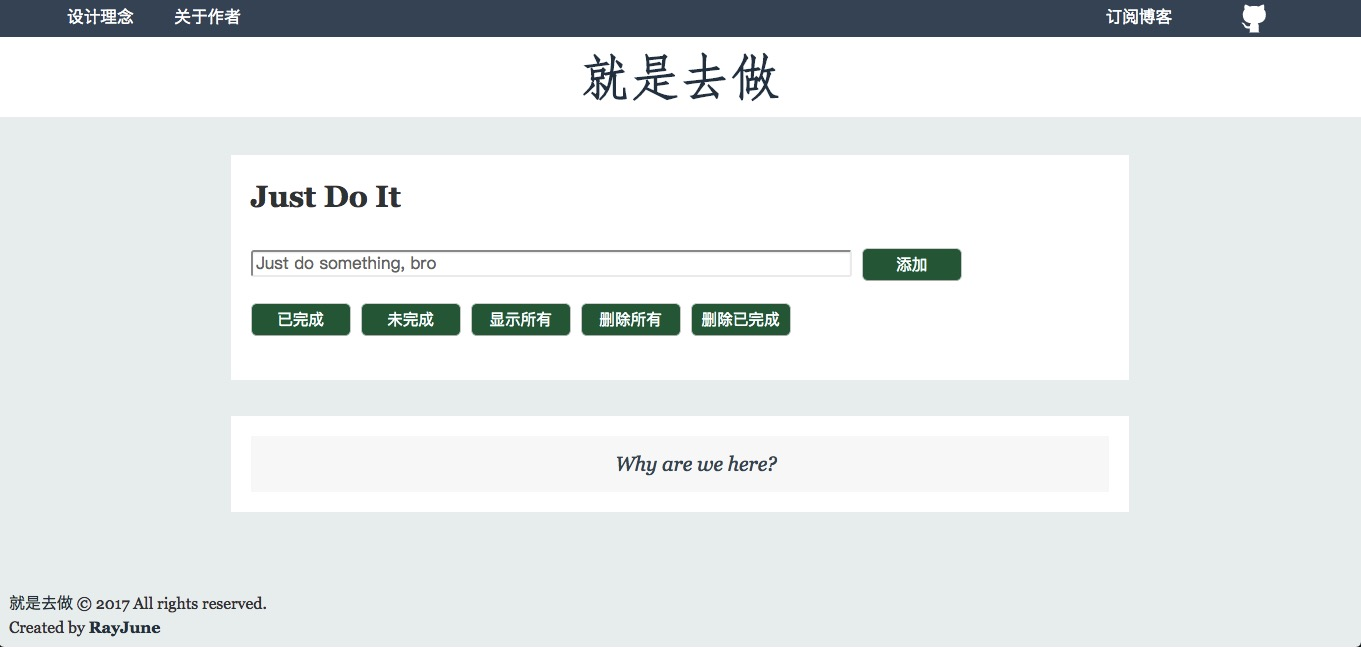
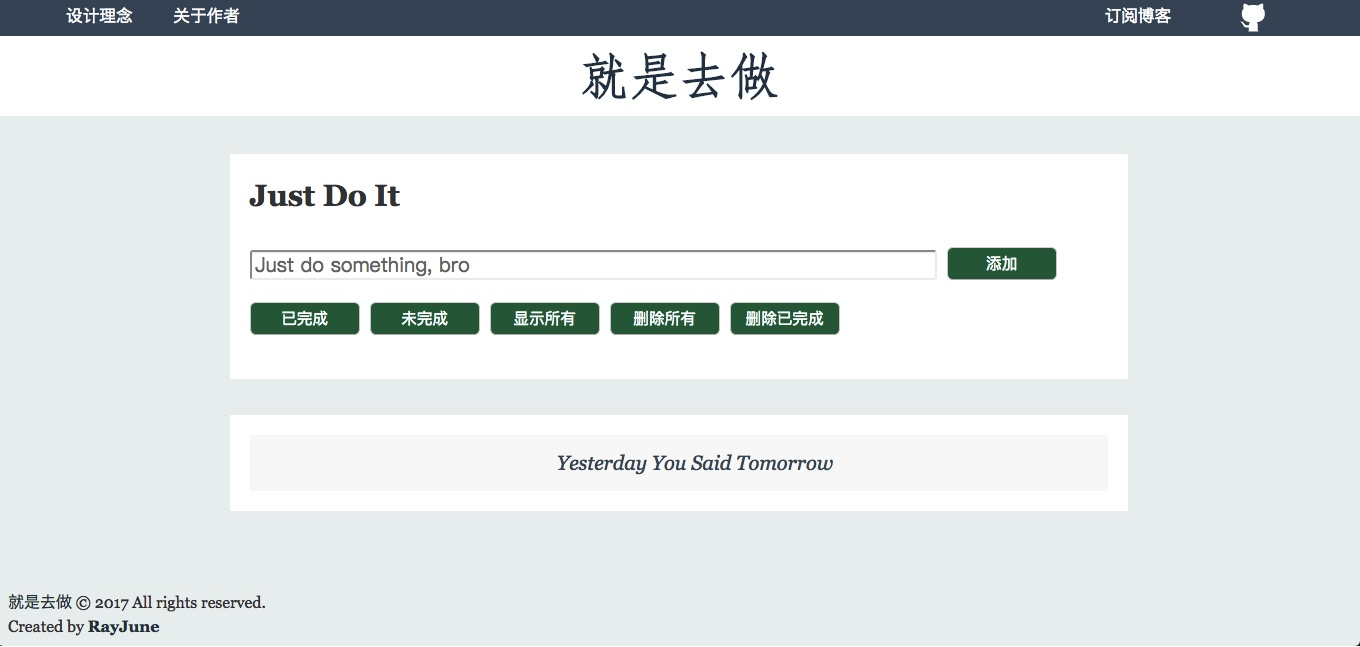
bigger operable area in mobile, take a break :)

diff --git a/dist/styles/main.min.css b/dist/styles/main.min.css
@@ -1,1 +1,1 @@
-/*! normalize.css v7.0.0 | MIT License | github.com/necolas/normalize.css */html{line-height:1.15;-ms-text-size-adjust:100%;-webkit-text-size-adjust:100%}body{margin:0}article,aside,footer,header,nav,section{display:block}h1{font-size:2em;margin:.67em 0}figcaption,figure,main{display:block}figure{margin:1em 40px}hr{box-sizing:content-box;height:0;overflow:visible}pre{font-family:monospace,monospace;font-size:1em}a{background-color:transparent;-webkit-text-decoration-skip:objects}abbr[title]{border-bottom:none;text-decoration:underline;text-decoration:underline dotted}b,strong{font-weight:inherit}b,strong{font-weight:bolder}code,kbd,samp{font-family:monospace,monospace;font-size:1em}dfn{font-style:italic}mark{background-color:#ff0;color:#000}small{font-size:80%}sub,sup{font-size:75%;line-height:0;position:relative;vertical-align:baseline}sub{bottom:-.25em}sup{top:-.5em}audio,video{display:inline-block}audio:not([controls]){display:none;height:0}img{border-style:none}svg:not(:root){overflow:hidden}button,input,optgroup,select,textarea{font-family:sans-serif;font-size:100%;line-height:1.15;margin:0}button,input{overflow:visible}button,select{text-transform:none}[type=reset],[type=submit],button,html [type=button]{-webkit-appearance:button}[type=button]::-moz-focus-inner,[type=reset]::-moz-focus-inner,[type=submit]::-moz-focus-inner,button::-moz-focus-inner{border-style:none;padding:0}[type=button]:-moz-focusring,[type=reset]:-moz-focusring,[type=submit]:-moz-focusring,button:-moz-focusring{outline:1px dotted ButtonText}fieldset{padding:.35em .75em .625em}legend{box-sizing:border-box;color:inherit;display:table;max-width:100%;padding:0;white-space:normal}progress{display:inline-block;vertical-align:baseline}textarea{overflow:auto}[type=checkbox],[type=radio]{box-sizing:border-box;padding:0}[type=number]::-webkit-inner-spin-button,[type=number]::-webkit-outer-spin-button{height:auto}[type=search]{-webkit-appearance:textfield;outline-offset:-2px}[type=search]::-webkit-search-cancel-button,[type=search]::-webkit-search-decoration{-webkit-appearance:none}::-webkit-file-upload-button{-webkit-appearance:button;font:inherit}details,menu{display:block}summary{display:list-item}canvas{display:inline-block}template{display:none}[hidden]{display:none}html{font-size:62.5%;height:100%;-webkit-box-sizing:border-box;box-sizing:border-box}*,:after,:before{-webkit-box-sizing:inherit;box-sizing:inherit}.clearfix::after{content:"";display:table;clear:both}body{height:100%;font-family:Georgia,'Source Han Sans CN','Xin Gothic','Hiragino Sans GB','Microsoft YaHei',sans-serif;font-size:1.6rem;line-height:1.6;color:#3a4145;background:#ecf0f1}a{text-decoration:none;color:#2c3e50;-webkit-transition:color .36s;transition:color .36s}a:hover{color:#0d8}p{margin:0}header{height:3.8rem;line-height:3.8rem;background-color:#456;color:#fff;position:fixed;top:0;z-index:100;width:100%;padding-bottom:11.8rem}.github-corner{top:calc((3.8rem - 43px)/ 2)}nav a{font-size:1.66rem;color:#fff;border-radius:.6rem;-webkit-transition:background-color .66s;transition:background-color .66s}nav a:hover{background-color:#0d8;color:#fff}.design{float:left;margin-left:5%}.about{float:left;margin-left:3%}.subscribe{float:right;margin-right:calc(8rem + 8%)}.page-title{margin-left:auto;margin-right:auto;font-family:STFangsong,"Songti TC",simsun,Arial,serif;font-weight:700;text-align:center;background-color:#fff;height:8rem}.page-title a{line-height:8rem;font-size:5rem;-webkit-transition:color .88s;transition:color .88s}footer{height:6.5rem;padding:1rem 3.6rem 1.6rem 1rem;line-height:1.5}.main{padding-top:15.6rem;min-height:calc(100% - 7.5rem)}.operate-area{overflow-y:scroll;margin-left:auto;margin-right:auto;padding:.8rem 2rem .66rem;width:66%;height:22.46rem;font-size:2rem;word-wrap:break-word;background-color:#fff}h2{margin-top:1rem}.add-area{display:-webkit-box;display:-ms-flexbox;display:flex;-webkit-box-orient:horizontal;-webkit-box-direction:normal;-webkit-box-align:center;-ms-flex-align:center;align-items:center;margin-bottom:2rem}#input{display:inline-block;width:70%;font-size:1.68rem;height:2.7rem;padding:.36rem;margin-right:1rem;border-radius:.3rem;-webkit-box-shadow:inset 0 .1rem .1rem rgba(0,0,0,.075);box-shadow:inset 0 .1rem .1rem rgba(0,0,0,.075)}#input:focus{border-color:#0d8;outline:0;-webkit-box-shadow:inset 0 1px 1px rgba(0,0,0,.075),0 0 8px rgba(102,175,233,.6);box-shadow:inset 0 1px 1px rgba(0,0,0,.075),0 0 8px rgba(102,175,233,.6)}.buttons{display:-webkit-box;display:-ms-flexbox;display:flex;-webkit-box-orient:horizontal;-webkit-box-direction:normal;-ms-flex-direction:row;flex-direction:row;-webkit-box-align:center;-ms-flex-align:center;align-items:center;-ms-flex-wrap:wrap;flex-wrap:wrap}button{cursor:pointer;padding:.8rem 0;font-size:1.56rem;line-height:1;width:10rem;margin-right:1rem;margin-top:.2rem;border-radius:.6rem;color:#fff;background-color:#164;-webkit-transition:background-color .66s;transition:background-color .66s}button:hover{background-color:#0d8}ul{list-style:none;margin:3.6rem auto 1rem;padding:2rem;width:66%;background-color:#fff}li{cursor:pointer;padding:1.2rem .8rem 1.2rem 4rem;overflow-x:scroll;background:#eee;font-size:1.66rem;position:relative;-webkit-transition:.2s;transition:.2s;-webkit-user-select:none;-moz-user-select:none;-ms-user-select:none;user-select:none}li:hover{background:#ddd}li span{font-size:1.88rem;font-weight:700}li:nth-child(odd){background:#f9f9f9}li.finished{background:#888;color:#fff;text-decoration:line-through}li.finished::before{content:'';position:absolute;border-color:#fff;border-style:solid;border-width:0 .1rem .1rem 0;top:1.5rem;left:1.6rem;-webkit-transform:rotate(45deg);transform:rotate(45deg);height:1.5rem;width:.7rem}li.aphorism{cursor:default;font-size:2rem;text-align:center;color:#456;font-style:italic}.close{position:absolute;right:0;top:0;padding:1.2rem 1.6rem 1.2rem 1.6rem}.close:hover{background-color:#0d8;color:#fff}@media (max-width:415px){.operate-area{height:25.46rem}#input{width:110%}#add{width:6rem;margin-right:0}.buttons{-webkit-box-pack:space-evenly;-ms-flex-pack:space-evenly;justify-content:space-evenly}button{font-size:1.36rem;margin-right:0;width:48%}#showClearDone{width:98%}.subscribe{margin-right:9rem}li.aphorism{font-size:1.8rem}}
+/*! normalize.css v7.0.0 | MIT License | github.com/necolas/normalize.css */html{line-height:1.15;-ms-text-size-adjust:100%;-webkit-text-size-adjust:100%}body{margin:0}article,aside,footer,header,nav,section{display:block}h1{font-size:2em;margin:.67em 0}figcaption,figure,main{display:block}figure{margin:1em 40px}hr{box-sizing:content-box;height:0;overflow:visible}pre{font-family:monospace,monospace;font-size:1em}a{background-color:transparent;-webkit-text-decoration-skip:objects}abbr[title]{border-bottom:none;text-decoration:underline;text-decoration:underline dotted}b,strong{font-weight:inherit}b,strong{font-weight:bolder}code,kbd,samp{font-family:monospace,monospace;font-size:1em}dfn{font-style:italic}mark{background-color:#ff0;color:#000}small{font-size:80%}sub,sup{font-size:75%;line-height:0;position:relative;vertical-align:baseline}sub{bottom:-.25em}sup{top:-.5em}audio,video{display:inline-block}audio:not([controls]){display:none;height:0}img{border-style:none}svg:not(:root){overflow:hidden}button,input,optgroup,select,textarea{font-family:sans-serif;font-size:100%;line-height:1.15;margin:0}button,input{overflow:visible}button,select{text-transform:none}[type=reset],[type=submit],button,html [type=button]{-webkit-appearance:button}[type=button]::-moz-focus-inner,[type=reset]::-moz-focus-inner,[type=submit]::-moz-focus-inner,button::-moz-focus-inner{border-style:none;padding:0}[type=button]:-moz-focusring,[type=reset]:-moz-focusring,[type=submit]:-moz-focusring,button:-moz-focusring{outline:1px dotted ButtonText}fieldset{padding:.35em .75em .625em}legend{box-sizing:border-box;color:inherit;display:table;max-width:100%;padding:0;white-space:normal}progress{display:inline-block;vertical-align:baseline}textarea{overflow:auto}[type=checkbox],[type=radio]{box-sizing:border-box;padding:0}[type=number]::-webkit-inner-spin-button,[type=number]::-webkit-outer-spin-button{height:auto}[type=search]{-webkit-appearance:textfield;outline-offset:-2px}[type=search]::-webkit-search-cancel-button,[type=search]::-webkit-search-decoration{-webkit-appearance:none}::-webkit-file-upload-button{-webkit-appearance:button;font:inherit}details,menu{display:block}summary{display:list-item}canvas{display:inline-block}template{display:none}[hidden]{display:none}html{font-size:62.5%;height:100%;-webkit-box-sizing:border-box;box-sizing:border-box}*,:after,:before{-webkit-box-sizing:inherit;box-sizing:inherit}.clearfix::after{content:"";display:table;clear:both}body{height:100%;font-family:Georgia,'Source Han Sans CN','Xin Gothic','Hiragino Sans GB','Microsoft YaHei',sans-serif;font-size:1.6rem;line-height:1.6;color:#3a4145;background:#ecf0f1}a{text-decoration:none;color:#2c3e50;-webkit-transition:color .36s;transition:color .36s}a:hover{color:#0d8}p{margin:0}header{height:3.8rem;line-height:3.8rem;background-color:#456;color:#fff;position:fixed;top:0;z-index:100;width:100%;padding-bottom:11.8rem}.github-corner{top:calc((3.8rem - 43px)/ 2)}nav a{font-size:1.66rem;color:#fff;border-radius:.6rem;-webkit-transition:background-color .66s;transition:background-color .66s}nav a:hover{background-color:#0d8;color:#fff}.design{float:left;margin-left:5%}.about{float:left;margin-left:3%}.subscribe{float:right;margin-right:calc(8rem + 8%)}.page-title{margin-left:auto;margin-right:auto;font-family:STFangsong,"Songti TC",simsun,Arial,serif;font-weight:700;text-align:center;background-color:#fff;height:8rem}.page-title a{line-height:8rem;font-size:5rem;-webkit-transition:color .88s;transition:color .88s}footer{height:6.5rem;padding:1rem 3.6rem 1.6rem 1rem;line-height:1.5}.main{padding-top:15.6rem;min-height:calc(100% - 7.5rem)}.operate-area{overflow-y:scroll;margin-left:auto;margin-right:auto;padding:.8rem 2rem .66rem;width:66%;height:22.46rem;font-size:2rem;word-wrap:break-word;background-color:#fff}h2{margin-top:1rem}.add-area{display:-webkit-box;display:-ms-flexbox;display:flex;-webkit-box-align:end;-ms-flex-align:end;align-items:flex-end;margin-bottom:2rem}#input{display:inline-block;width:80%;font-size:2rem;height:3rem;padding:.36rem;margin-right:1rem;border-radius:.3rem;-webkit-box-shadow:inset 0 .1rem .1rem rgba(0,0,0,.075);box-shadow:inset 0 .1rem .1rem rgba(0,0,0,.075)}#input:focus{border-color:#0d8;outline:0;-webkit-box-shadow:inset 0 1px 1px rgba(0,0,0,.075),0 0 8px rgba(102,175,233,.6);box-shadow:inset 0 1px 1px rgba(0,0,0,.075),0 0 8px rgba(102,175,233,.6)}button{cursor:pointer;padding:.8rem 0;font-size:1.56rem;line-height:1;width:11rem;margin-right:1rem;margin-top:.2rem;border-radius:.6rem;color:#fff;background-color:#164;-webkit-transition:background-color .66s;transition:background-color .66s}button:hover{background-color:#0d8}.buttons{display:-webkit-box;display:-ms-flexbox;display:flex;-webkit-box-orient:horizontal;-webkit-box-direction:normal;-ms-flex-direction:row;flex-direction:row;-webkit-box-align:center;-ms-flex-align:center;align-items:center;-ms-flex-wrap:wrap;flex-wrap:wrap}ul{list-style:none;margin:3.6rem auto 1rem;padding:2rem;width:66%;background-color:#fff}li{cursor:pointer;padding:1.2rem .8rem 1.2rem 4rem;overflow-x:scroll;background:#eee;font-size:1.66rem;position:relative;-webkit-transition:.2s;transition:.2s;-webkit-user-select:none;-moz-user-select:none;-ms-user-select:none;user-select:none}li:hover{background:#ddd}li span{font-size:1.88rem;font-weight:700}li:nth-child(odd){background:#f9f9f9}li.finished{background:#888;color:#fff;text-decoration:line-through}li.finished::before{content:'';position:absolute;border-color:#fff;border-style:solid;border-width:0 .1rem .1rem 0;top:1.5rem;left:1.6rem;-webkit-transform:rotate(45deg);transform:rotate(45deg);height:1.5rem;width:.7rem}li.aphorism{cursor:default;font-size:2rem;text-align:center;color:#456;font-style:italic}.close{position:absolute;right:0;top:0;padding:1.2rem 1.6rem 1.2rem 1.6rem}.close:hover{background-color:#0d8;color:#fff}@media (max-width:415px){.operate-area{height:25.46rem}#input{width:110%}#add{width:6rem;margin-right:0}.buttons{-webkit-box-pack:justify;-ms-flex-pack:justify;justify-content:space-between}button{font-size:1.36rem;margin-right:0;width:48%}#showClearDone{width:100%}.operate-area,ul{width:86%}.subscribe{margin-right:9rem}li{padding-left:1rem}li.aphorism{font-size:1.8rem}}

diff --git a/index.html b/index.html
@@ -10,7 +10,7 @@
   <body>
     <header>
       <nav class="clearfix">        
-        <a href="https://github.com/RayJune/JustToDo#%E9%A1%B5%E9%9D%A2%E8%AE%BE%E8%AE%A1%E7%90%86%E5%BF%B5" class="design">设计理念</a>
+        <a href="https://github.com/RayJune/JustToDo#%E9%A1%B5%E9%9D%A2%E8%AE%BE%E8%AE%A1%E7%90%66%E5%BF%B5" class="design">设计理念</a>
         <a href="https://www.rayjune.me/about" class="about">关于作者</a>
         <a href="https://www.rayjune.me/atom.xml" class="subscribe">订阅博客</a>
         <a href="https://github.com/RayJune/JustToDo" class="github-corner" aria-label="View source on Github"><svg width="80" height="75" -webkit-transform='rotate(-45)' -ms-transform='rotate(-45)' transform='rotate(-45)' viewBox="0 0 250 250" style="fill:#456; color:#fff; position: absolute; top: -0.36rem; border: 0; right: 5%;" aria-hidden="true"><path d="M128.3,109.0 C113.8,99.7 119.0,89.6 119.0,89.6 C122.0,82.7 120.5,78.6 120.5,78.6 C119.2,72.0 123.4,76.3 123.4,76.3 C127.3,80.9 125.5,87.3 125.5,87.3 C122.9,97.6 130.6,101.9 134.4,103.2" fill="currentColor" style="transform-origin: 130px 106px;" class="octo-arm"></path><path d="M115.0,115.0 C114.9,115.1 118.7,116.5 119.8,115.4 L133.7,101.6 C136.9,99.2 139.9,98.4 142.2,98.6 C133.8,88.0 127.5,74.4 143.8,58.0 C148.5,53.4 154.0,51.2 159.7,51.0 C160.3,49.4 163.2,43.6 171.4,40.1 C171.4,40.1 176.1,42.5 178.8,56.2 C183.1,58.6 187.2,61.8 190.9,65.4 C194.5,69.0 197.7,73.2 200.1,77.6 C213.8,80.2 216.3,84.9 216.3,84.9 C212.7,93.1 206.9,96.0 205.4,96.6 C205.1,102.4 203.0,107.8 198.3,112.5 C181.9,128.9 168.3,122.5 157.7,114.1 C157.9,116.9 156.7,120.9 152.7,124.9 L141.0,136.5 C139.8,137.7 141.6,141.9 141.8,141.8 Z" fill="currentColor" class="octo-body"></path></svg></a><style>.github-corner:hover .octo-arm{animation:octocat-wave 560ms ease-in-out}@keyframes octocat-wave{0%,100%{transform:rotate(0)}20%,60%{transform:rotate(-25deg)}40%,80%{transform:rotate(10deg)}}@media (max-width:500px){.github-corner:hover .octo-arm{animation:none}.github-corner .octo-arm{animation:octocat-wave 560ms ease-in-out}}</style>

diff --git a/src/styles/core.css b/src/styles/core.css
@@ -26,19 +26,17 @@ h2 {
   display: -ms-flexbox;
   /* use flexbox */
   display: flex;
-  -webkit-box-orient: horizontal;
-  -webkit-box-direction: normal;
-  -webkit-box-align: center;
-  -ms-flex-align: center;
-  align-items: center;
+  -webkit-box-align: end;
+      -ms-flex-align: end;
+          align-items: flex-end;
   margin-bottom: 2rem;
 }
 
 #input {
   display: inline-block;
-  width: 70%;
-  font-size: 1.68rem;
-  height: 2.7rem;
+  width: 80%;
+  font-size: 2rem;
+  height: 3rem;
   padding: 0.36rem;
   margin-right: 1rem;
   border-radius: 0.3rem;
@@ -51,6 +49,25 @@ h2 {
   outline: 0;
   -webkit-box-shadow: inset 0 1px 1px rgba(0,0,0,.075), 0 0 8px rgba(102,175,233,.6);
           box-shadow: inset 0 1px 1px rgba(0,0,0,.075), 0 0 8px rgba(102,175,233,.6);
+}
+
+button {
+  cursor: pointer;
+  padding: 0.8rem 0;
+  font-size: 1.56rem;
+  line-height: 1;
+  width: 11rem;
+  margin-right: 1rem;
+  margin-top: 0.2rem;
+  border-radius: 0.6rem;
+  color: #fff;
+  background-color: #164;
+  -webkit-transition: background-color 0.66s;
+  transition: background-color 0.66s;
+}
+
+button:hover {
+  background-color: #0D8;
 }
 
 .buttons {
@@ -67,25 +84,6 @@ h2 {
   align-items: center;
   -ms-flex-wrap: wrap;
       flex-wrap: wrap;
-}
-
-button {
-  cursor: pointer;
-  padding: 0.8rem 0;
-  font-size: 1.56rem;
-  line-height: 1;
-  width: 10rem;
-  margin-right: 1rem;
-  margin-top: 0.2rem;
-  border-radius: 0.6rem;
-  color: #fff;
-  background-color: #164;
-  -webkit-transition: background-color 0.66s;
-  transition: background-color 0.66s;
-}
-
-button:hover {
-  background-color: #0D8;
 }
 
 ul {

diff --git a/src/styles/media.css b/src/styles/media.css
@@ -13,9 +13,9 @@
 	}
 
   .buttons {
-    -webkit-box-pack: space-evenly;
-        -ms-flex-pack: space-evenly;
-            justify-content: space-evenly;
+    -webkit-box-pack: justify;
+        -ms-flex-pack: justify;
+            justify-content: space-between;
   }
 
 	button {
@@ -25,13 +25,21 @@
 	}
 
   #showClearDone {
-    width: 98%;
+    width: 100%;
+  }
+
+  .operate-area, ul{
+    width: 86%;
   }
 
 	.subscribe {
 		margin-right: 9rem;
   }
   
+  li {
+    padding-left: 1rem;
+  }
+
   li.aphorism {
     font-size: 1.8rem;
   }
